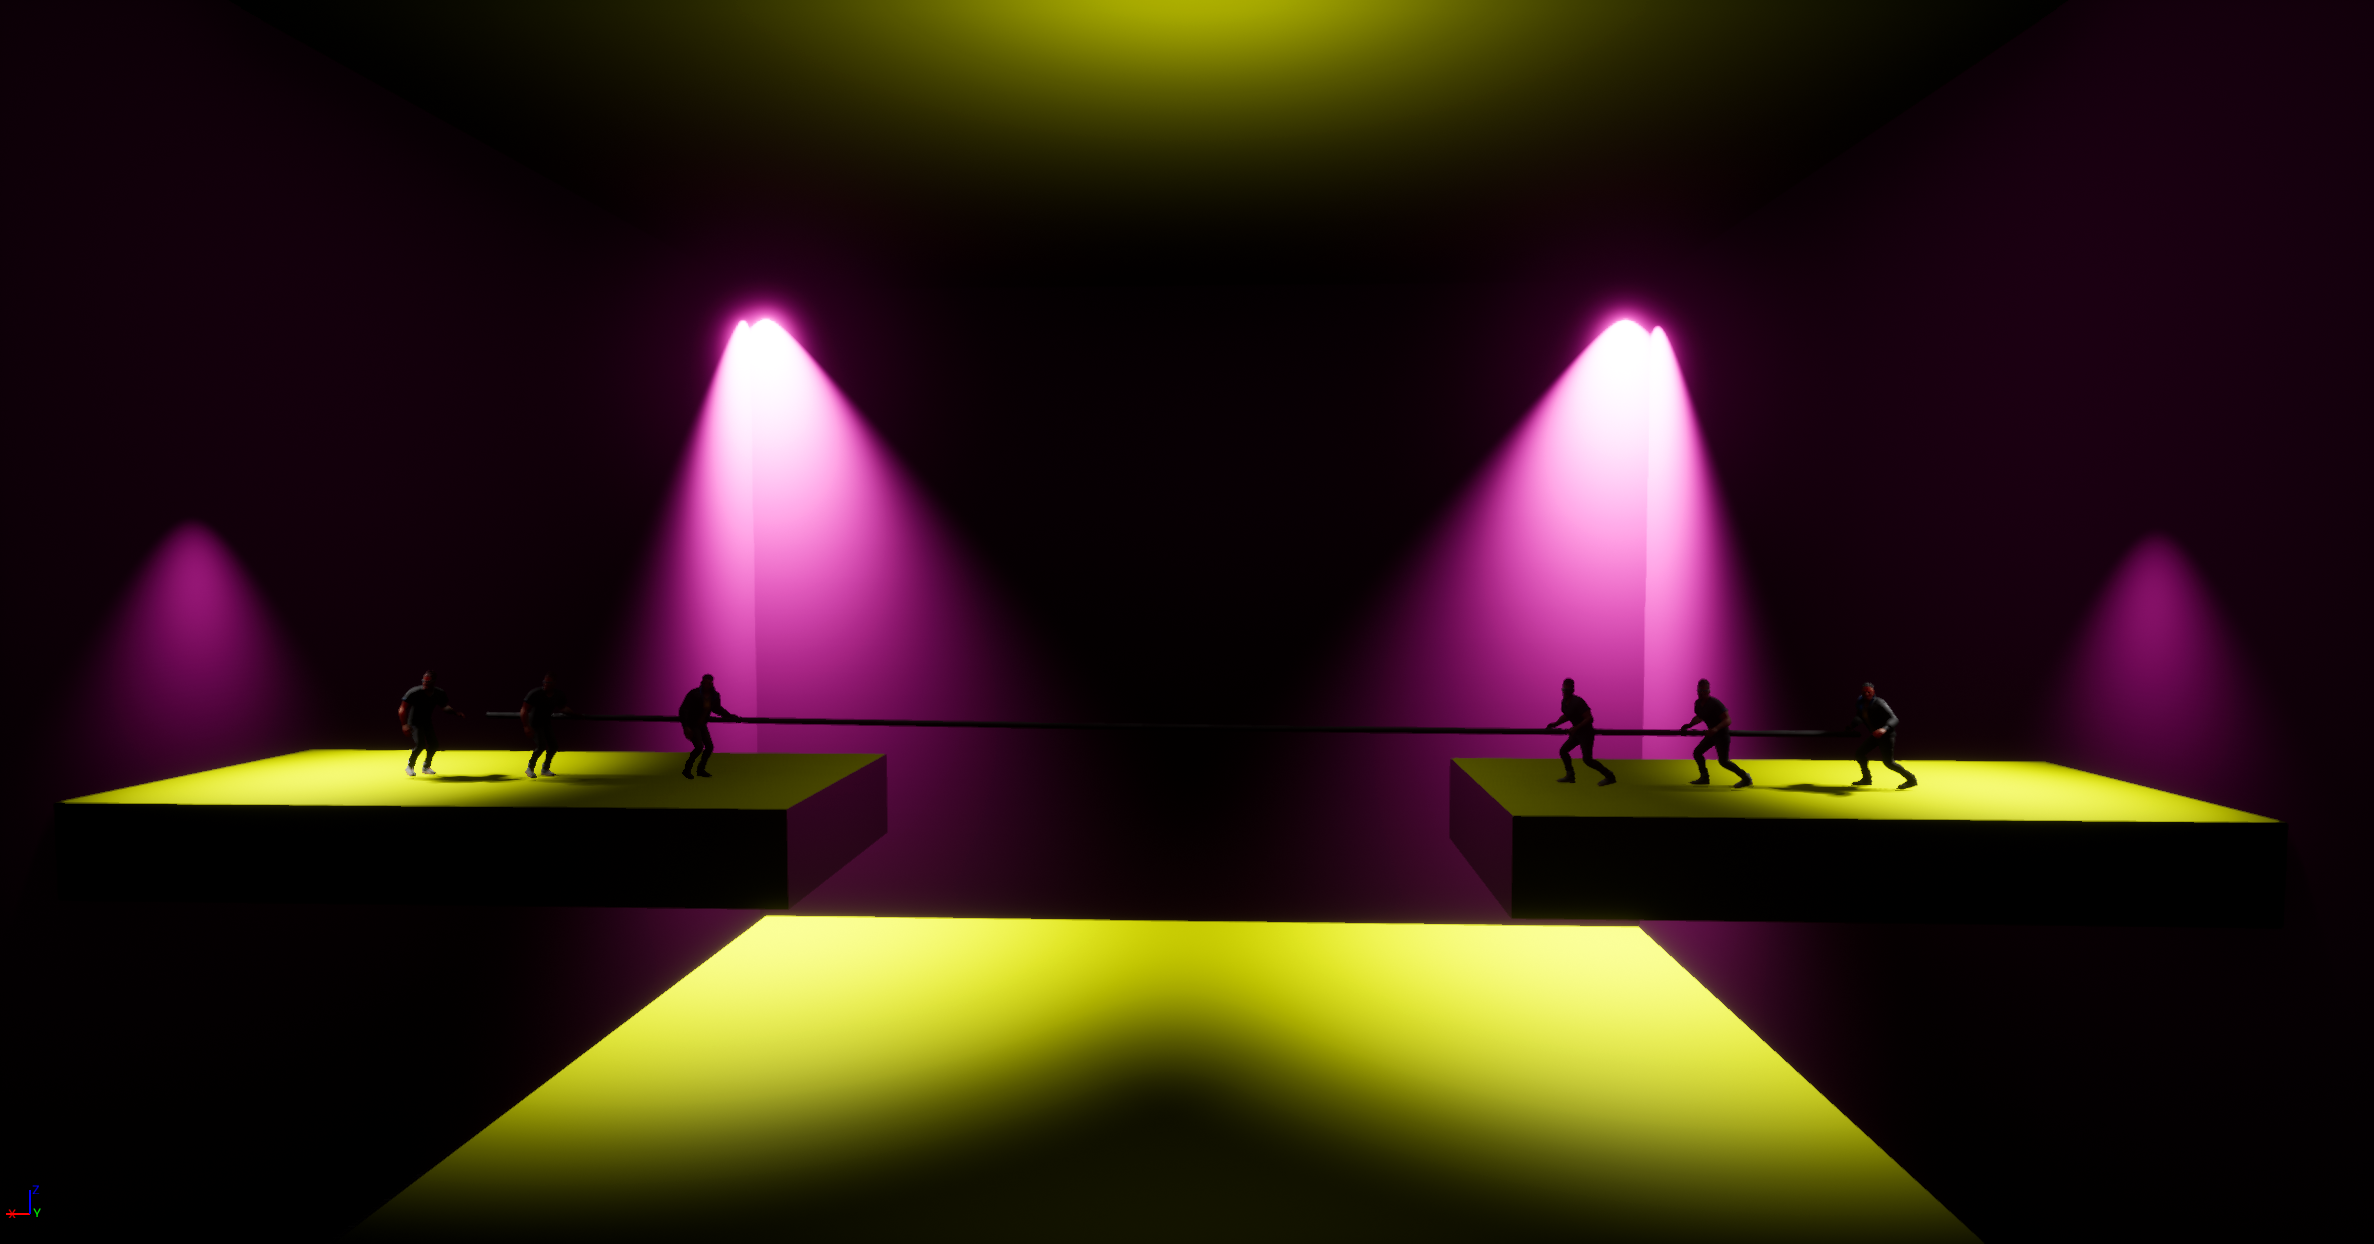
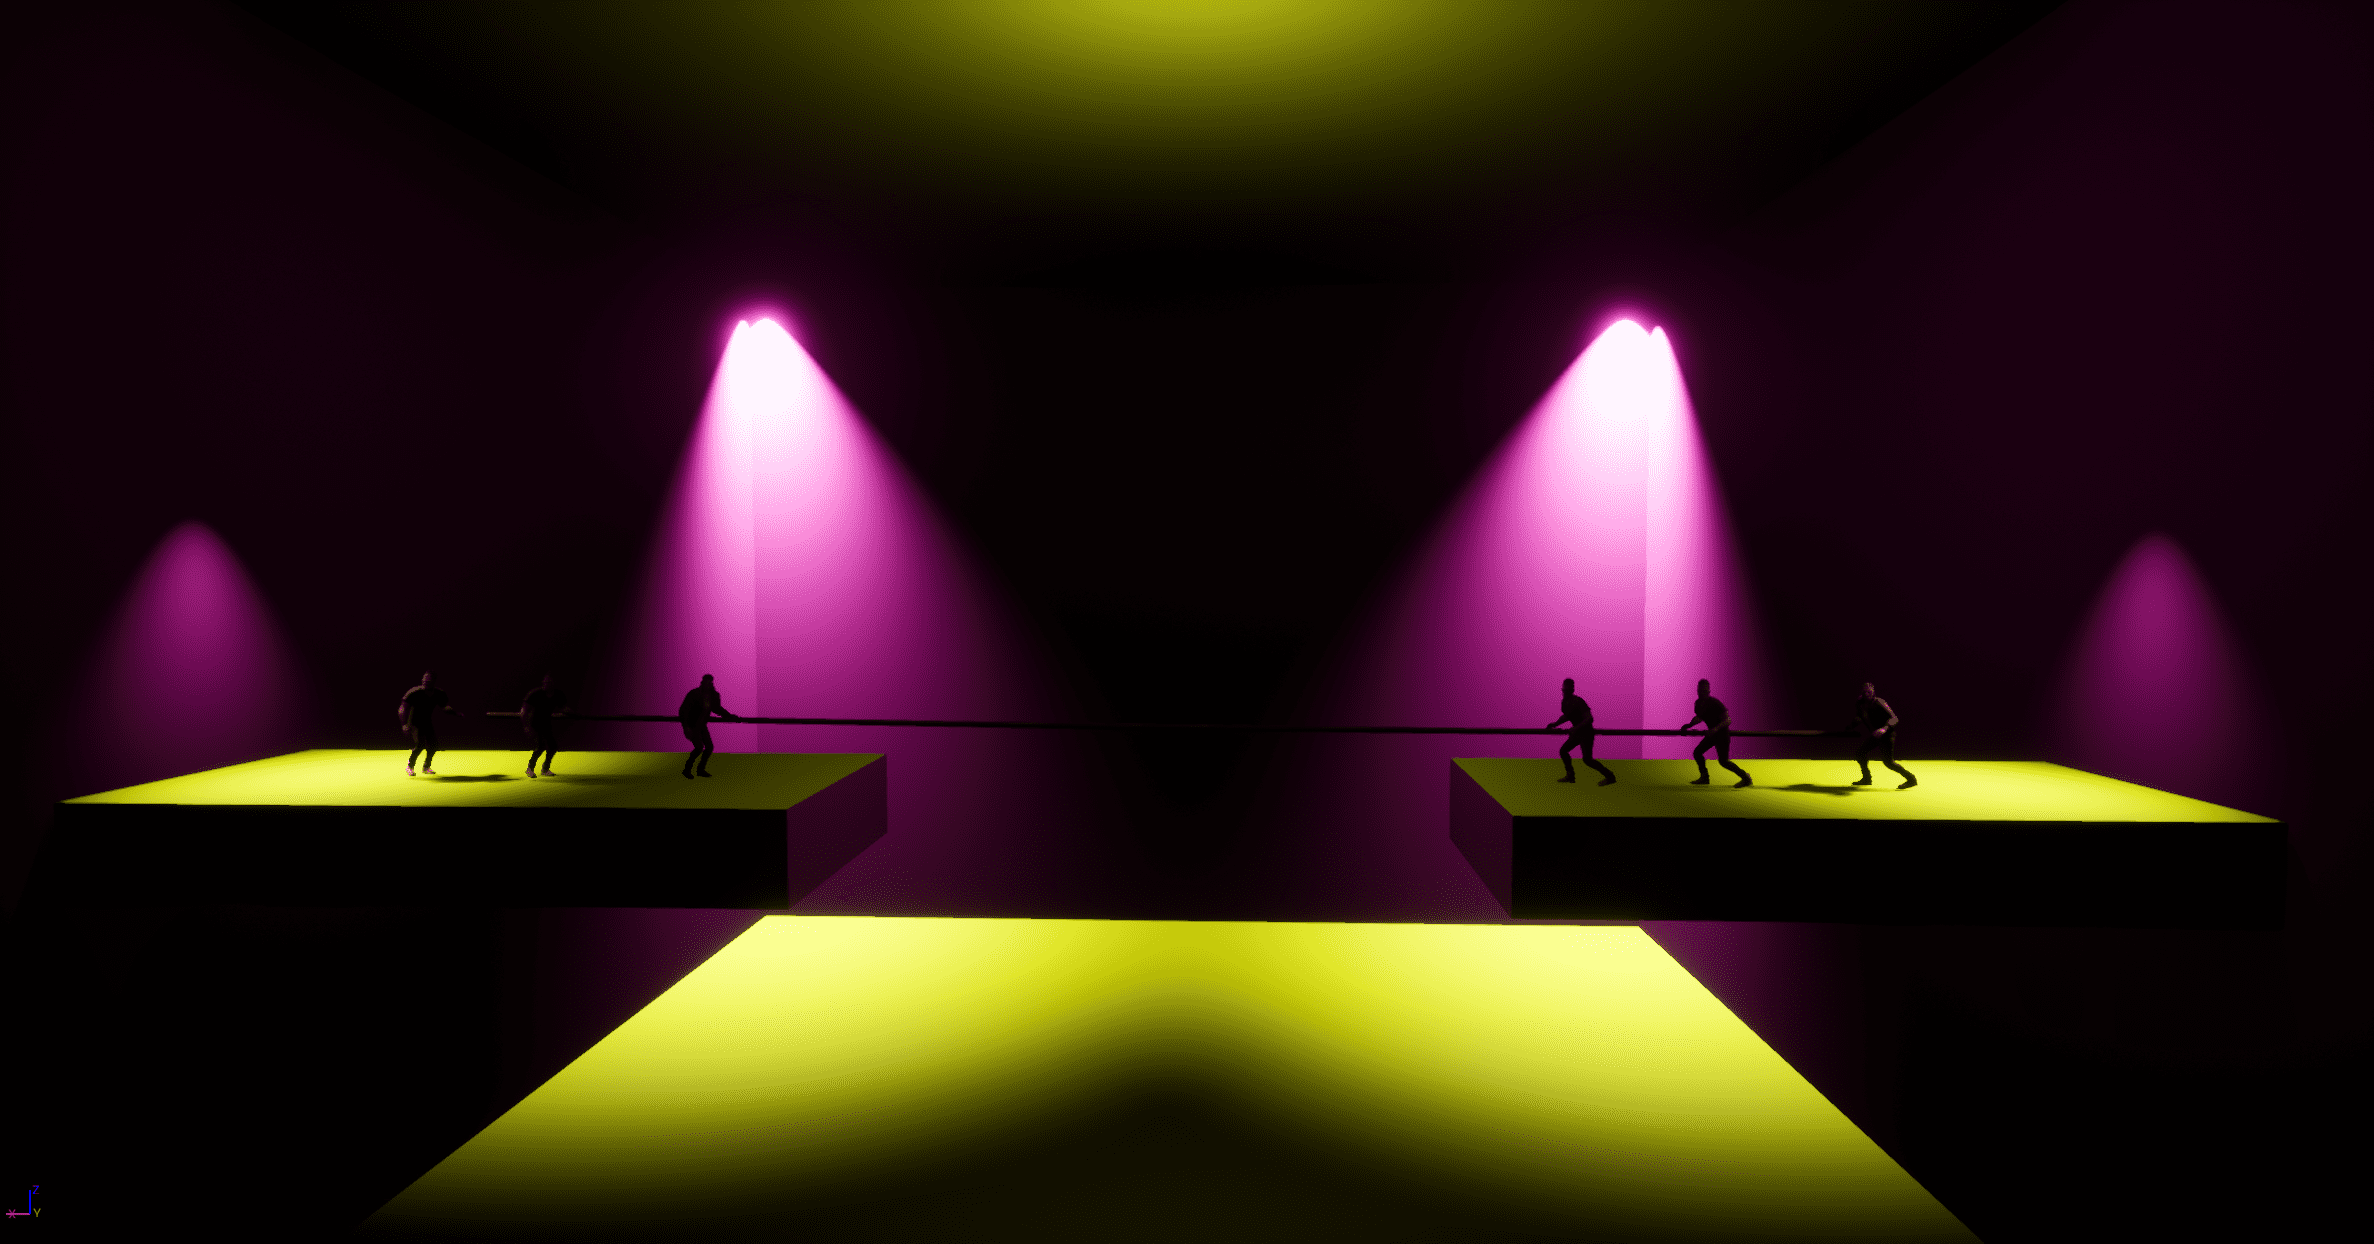
optimized_images

diff --git a/mygames.html b/mygames.html
@@ -106,7 +106,7 @@
     x = 2;
     }
     else if(x == 2){
-    document.getElementById("slider").src="squidgame3.png";
+    document.getElementById("slider").src="squidgame3.jpg";
     x = 3;
     }
     else if(x == 3){
